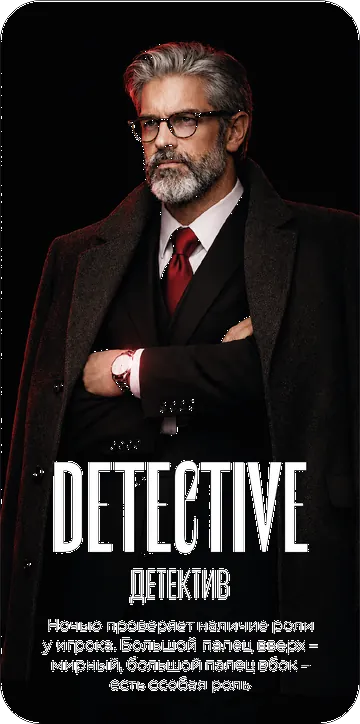
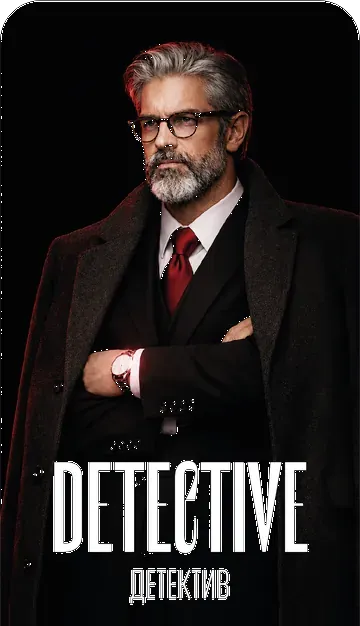
Role cards: remove the small description text, keep titles

diff --git a/docs/style.css b/docs/style.css
@@ -200,7 +200,7 @@ body:not(.notabs) #app{padding-bottom:calc(var(--bot) + 170px)}
 .step b{font:600 16px var(--display);text-transform:uppercase;letter-spacing:.02em}
 .step p{color:var(--mute);font-size:13px;margin-top:2px}
 .rgrid{display:grid;grid-template-columns:repeat(3,1fr);gap:8px}
-.rcard{aspect-ratio:1/2;border-radius:12px;overflow:hidden;background:#070707;padding:0;transition:.15s;box-shadow:0 0 0 1px var(--line)}
+.rcard{aspect-ratio:360/626;border-radius:12px;overflow:hidden;background:#070707;padding:0;transition:.15s;box-shadow:0 0 0 1px var(--line)}
 .rimg{display:block;width:100%;height:100%;object-fit:cover}
 .rcard:active{transform:scale(.96);box-shadow:0 0 0 1.5px var(--red)}
 .rcard span{font:600 13px var(--display);text-transform:uppercase;letter-spacing:.03em}
@@ -231,7 +231,7 @@ body:not(.notabs) #app{padding-bottom:calc(var(--bot) + 170px)}
 .x{position:absolute;right:14px;top:12px;width:34px;height:34px;border-radius:50%;background:var(--s2);color:#aaa;font-size:14px}
 .role-h h2{font-size:36px;margin-top:8px}
 .role-b{display:flex;gap:16px;margin-top:18px;align-items:flex-start}
-.frame{flex:none;width:118px;aspect-ratio:1/2;border-radius:12px;overflow:hidden;background:#050505}
+.frame{flex:none;width:118px;aspect-ratio:360/626;border-radius:12px;overflow:hidden;background:#050505}
 .phases{display:grid;gap:8px}
 .phase{display:flex;gap:12px;align-items:flex-start;padding:12px 14px;border:1px solid var(--line);border-radius:14px;background:var(--s1)}
 .phase .em{font-size:20px;line-height:1.2}

diff --git a/docs/index.html b/docs/index.html
@@ -10,7 +10,7 @@
 <link href="https://fonts.googleapis.com/css2?family=Oswald:wght@400;500;600;700&family=Inter:wght@300;400;500;600&display=swap" rel="stylesheet">
 <script src="https://telegram.org/js/telegram-web-app.js"></script>
 <link rel="icon" href="favicon.png">
-<link rel="stylesheet" href="style.css?v=rules7">
+<link rel="stylesheet" href="style.css?v=cards8">
 </head>
 <body>
 <div id="app"></div>
@@ -23,6 +23,6 @@
 </nav>
 <div class="toast" id="toast"></div>
 <script src="config.js"></script>
-<script src="app.js?v=rules7"></script>
+<script src="app.js?v=cards8"></script>
 </body>
 </html>
